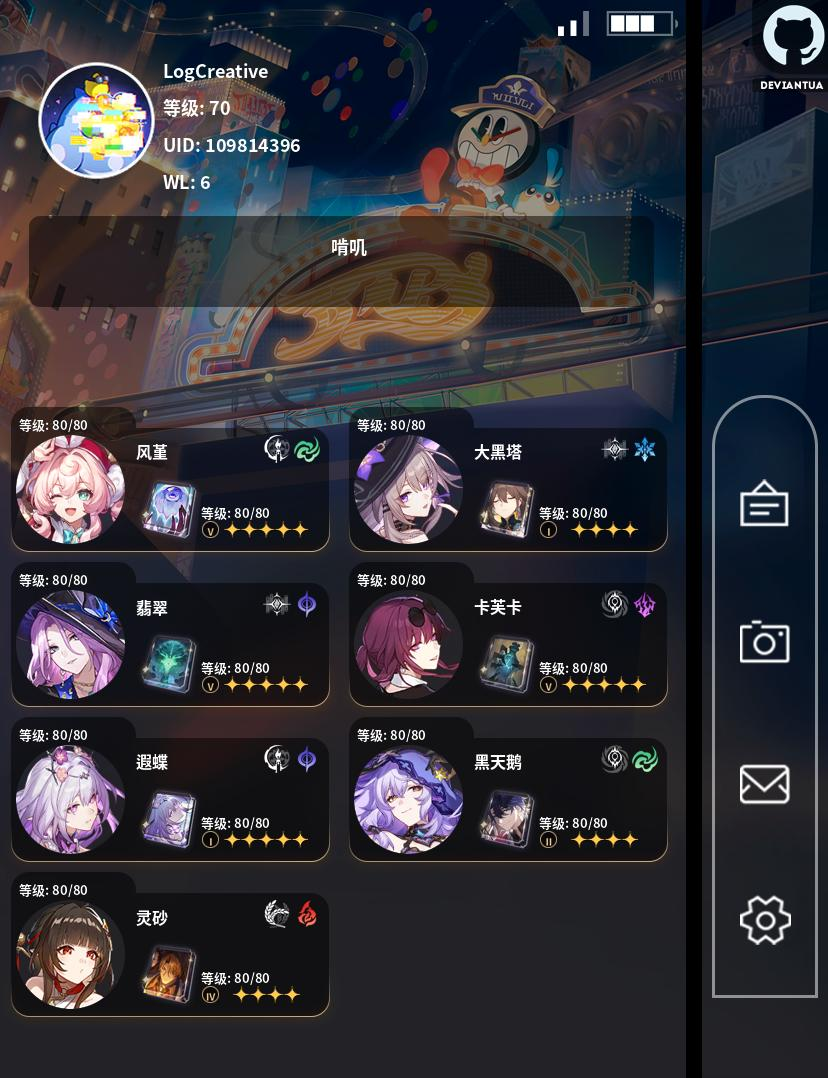
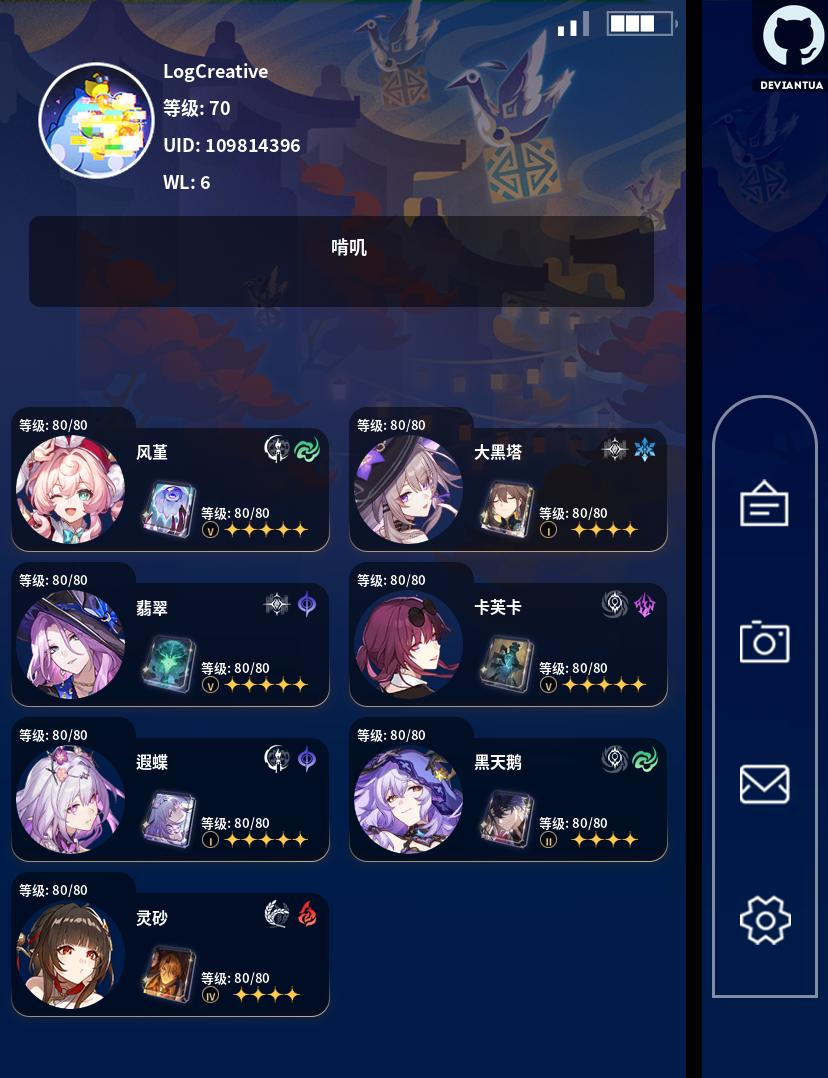
deploy: LogCreative/logcreative.tech@6d79b76bb006ea0baa49716bcd4e58de44a3c6fc

diff --git a/assets/StarRailCard-web/railcard_config.js b/assets/StarRailCard-web/railcard_config.js
@@ -1,2 +1,2 @@
-characters = ["大黑塔-5", "风堇-5", "翡翠-5", "遐蝶-5", "卡芙卡-5", "黑天鹅-5", "灵砂-5"];
+characters = ["翡翠-5", "黑天鹅-5", "大黑塔-5", "遐蝶-5", "卡芙卡-5", "风堇-5", "灵砂-5"];
 imgdir = "/assets/StarRailCard-web/RailCard"

diff --git a/about/parts/starrail/index.html b/about/parts/starrail/index.html
@@ -43,7 +43,11 @@
     margin: 0 auto;
 }
 
-
+@media(min-width: 600px){
+    #starrail_profile {
+        display: none;
+    }
+}
 </style>
 <img id="starrail_profile" src="/assets/StarRailCard-web/RailCard/profile.jpg">
 <railcard></railcard>

diff --git a/about/parts/genshin/index.html b/about/parts/genshin/index.html
@@ -43,7 +43,11 @@
     margin: 0 auto;
 }
 
-
+@media(min-width: 600px){
+    #genshin_profile {
+        display: none;
+    }
+}
 </style>
 <img id="genshin_profile" src="/assets/EnkaCard-web/genshin/profile.jpg">
 <enkacard></enkacard>
